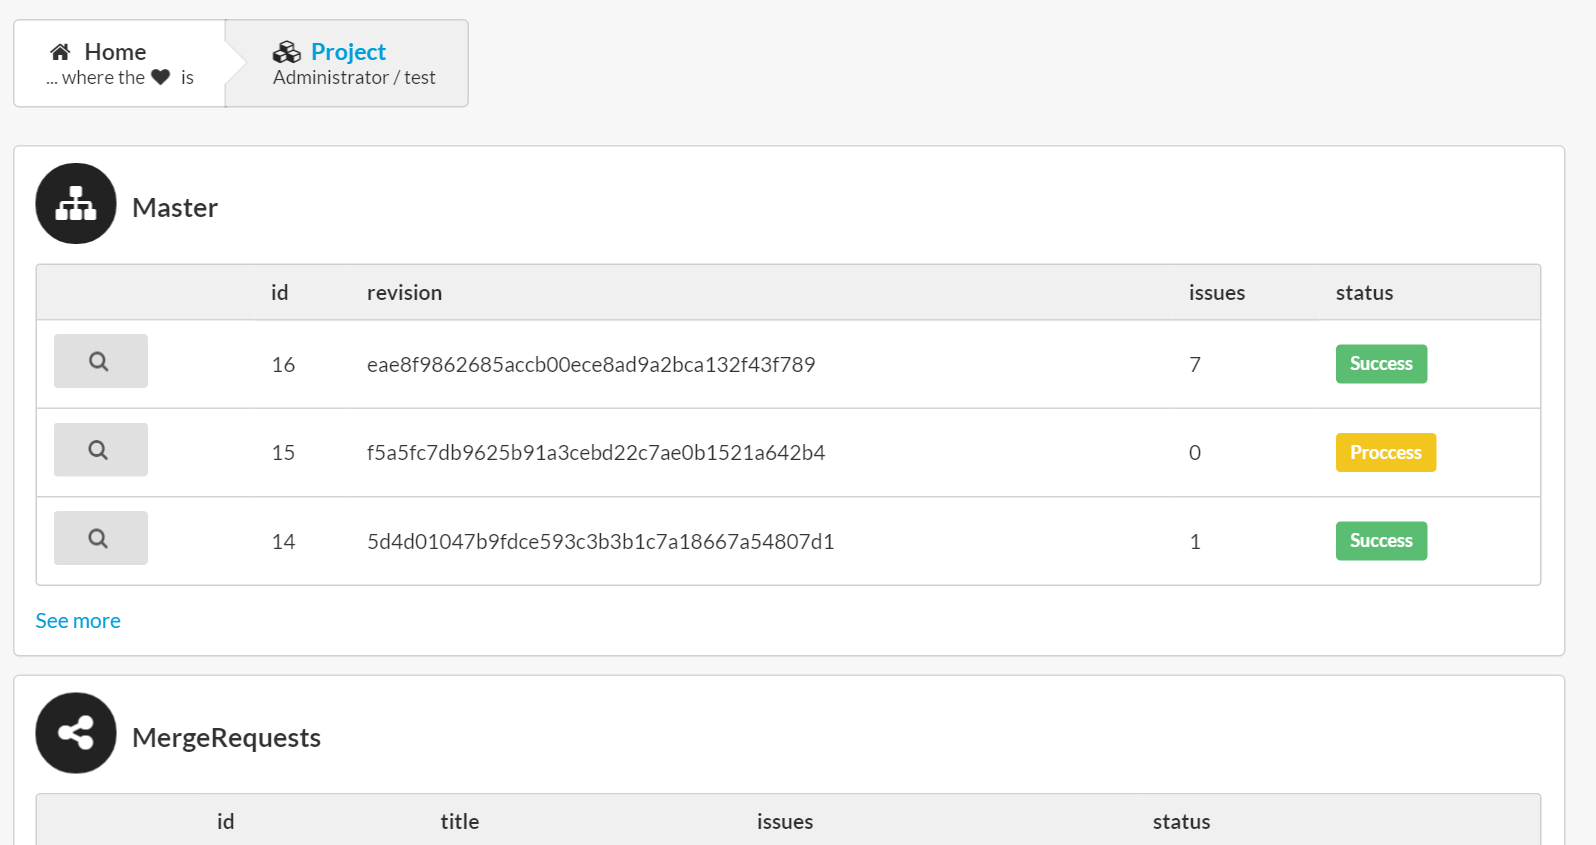
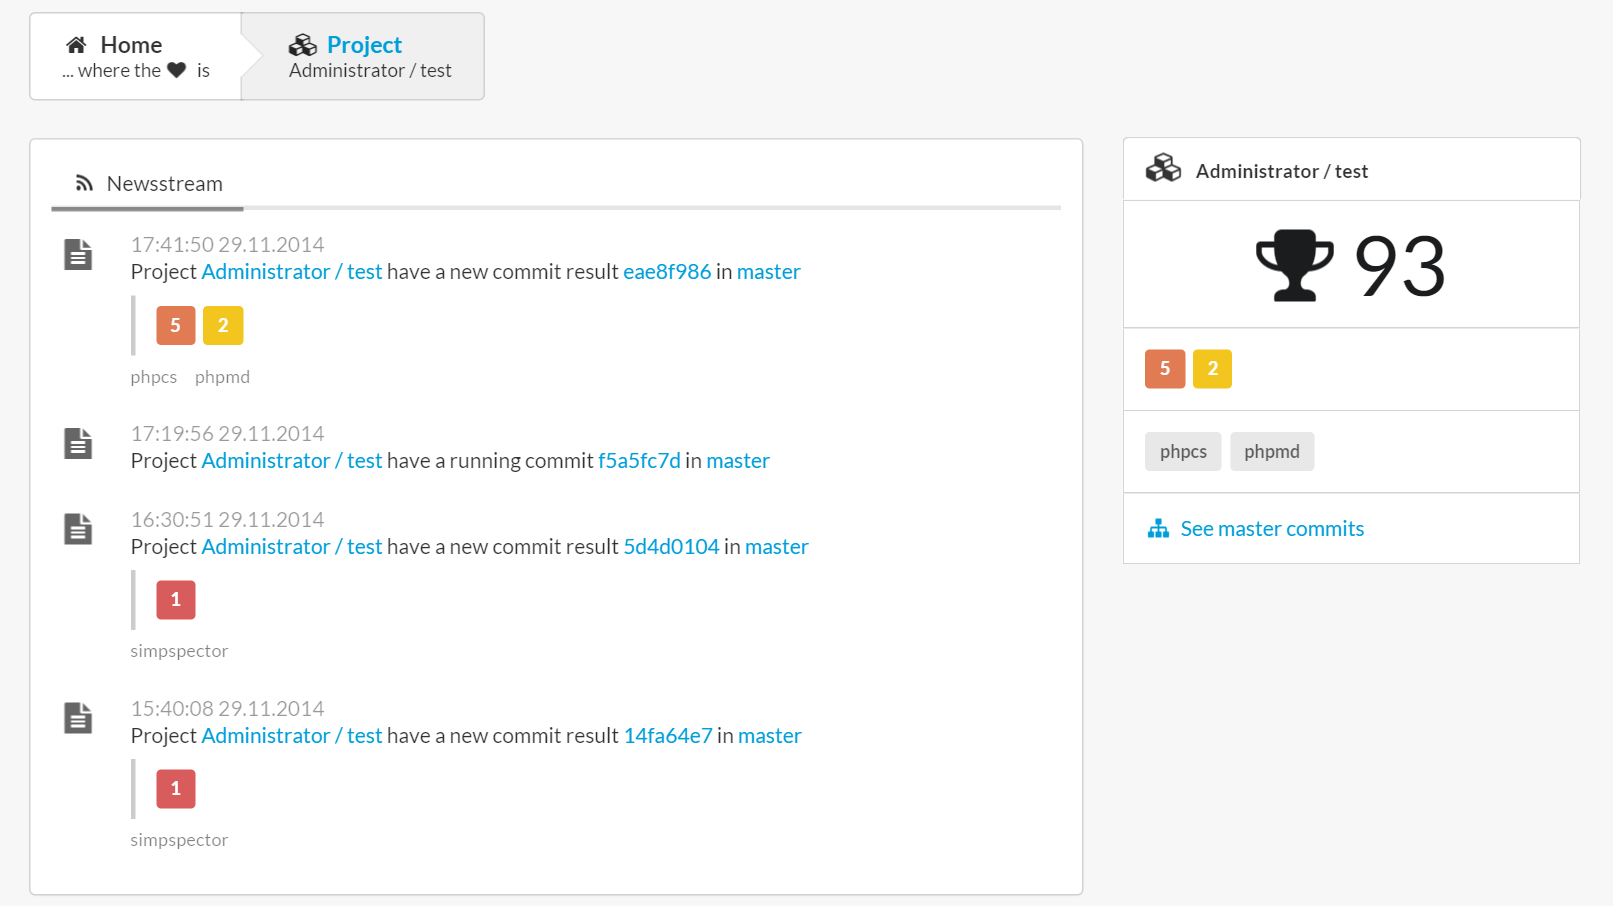
newsstream on dashboard

diff --git a/src/SimpleThings/AppBundle/Twig/UtilExtension.php b/src/SimpleThings/AppBundle/Twig/UtilExtension.php
@@ -45,7 +45,8 @@ class UtilExtension extends \Twig_Extension
     public function getFilters()
     {
         return [
-            'level_color' => new \Twig_SimpleFilter('level_color', [$this, 'colorLevel'])
+            'level_color' => new \Twig_SimpleFilter('level_color', [$this, 'colorLevel']),
+            'level_icon'  => new \Twig_SimpleFilter('level_icon', [$this, 'iconLevel'])
         ];
     }
 
@@ -55,20 +56,29 @@ class UtilExtension extends \Twig_Extension
      */
     public function groupIssues($issues)
     {
-        $groups = [
-            'gadget' => [],
-            'level'  => []
+        $gadgets = [];
+        $levels  = [
+            Issue::LEVEL_NOTICE   => [],
+            Issue::LEVEL_WARNING  => [],
+            Issue::LEVEL_ERROR    => [],
+            Issue::LEVEL_CRITICAL => []
         ];
 
         foreach ($issues as $issue) {
-            $groups['gadget'][$issue->getGadget()][] = $issue;
-            $groups['level'][$issue->getLevel()][]   = $issue;
+            $gadgets[$issue->getGadget()][] = $issue;
+            $levels[$issue->getLevel()][]   = $issue;
         }
 
-        ksort($groups['gadget']);
-        ksort($groups['level']);
+        ksort($gadgets);
 
-        return $groups;
+        $levels = array_filter($levels, function ($array) {
+            return !empty($array);
+        });
+
+        return [
+            'gadget' => $gadgets,
+            'level'  => $levels
+        ];
     }
 
     /**
@@ -86,6 +96,24 @@ class UtilExtension extends \Twig_Extension
                 return 'orange';
             case Issue::LEVEL_CRITICAL:
                 return 'red';
+        }
+    }
+
+    /**
+     * @param Issue $issue
+     * @return string
+     */
+    public function iconLevel(Issue $issue)
+    {
+        switch ($issue->getLevel()) {
+            case Issue::LEVEL_NOTICE:
+                return 'info';
+            case Issue::LEVEL_WARNING:
+                return 'warning';
+            case Issue::LEVEL_ERROR:
+                return 'bug';
+            case Issue::LEVEL_CRITICAL:
+                return 'fire';
         }
     }
 

diff --git a/src/SimpleThings/AppBundle/Controller/DashboardController.php b/src/SimpleThings/AppBundle/Controller/DashboardController.php
@@ -16,14 +16,18 @@ class DashboardController extends Controller
      */
     public function indexAction()
     {
-        /** @var EntityRepository $repository */
-        $repository = $this->get('doctrine')->getRepository('SimpleThings\AppBundle\Entity\Project');
-        $projects   = $repository->findBy([], ['id' => 'DESC']);
+        $projectRepository = $this->getDoctrine()->getRepository('SimpleThings\AppBundle\Entity\Project');
+        $commitRepository  = $this->getDoctrine()->getRepository('SimpleThings\AppBundle\Entity\Commit');
+
+        $projects = $projectRepository->findBy([], ['id' => 'DESC']);
+
+        $commits = $commitRepository->findGlobalCommits();
 
         return $this->render(
             "SimpleThingsAppBundle:Dashboard:index.html.twig",
             [
                 'projects' => $projects,
+                'commits'  => $commits
             ]
         );
     }

diff --git a/src/SimpleThings/AppBundle/Repository/CommitRepository.php b/src/SimpleThings/AppBundle/Repository/CommitRepository.php
@@ -114,7 +114,7 @@ class CommitRepository extends EntityRepository
     public function findGlobalCommits($limit = null)
     {
         $query = $this->createQueryBuilder('c')
-            ->orderBy('c.createdDate', 'DESC')
+            ->orderBy('c.createdAt', 'DESC')
             ->getQuery();
 
         if ($limit) {

diff --git a/src/SimpleThings/AppBundle/Entity/Commit.php b/src/SimpleThings/AppBundle/Entity/Commit.php
@@ -155,7 +155,11 @@ class Commit
      */
     public function getProject()
     {
-        return $this->project;
+        if ($this->project) {
+            return $this->project;
+        }
+
+        return $this->getMergeRequest()->getProject(); // todo remove
     }
 
     /**

diff --git a/src/SimpleThings/AppBundle/Controller/CommitController.php b/src/SimpleThings/AppBundle/Controller/CommitController.php
@@ -18,6 +18,9 @@ class CommitController extends Controller
 {
     /**
      * @Route("/{id}/show", name="commit_show")
+     *
+     * @param Commit $commit
+     * @return \Symfony\Component\HttpFoundation\Response
      */
     public function showAction(Commit $commit)
     {
